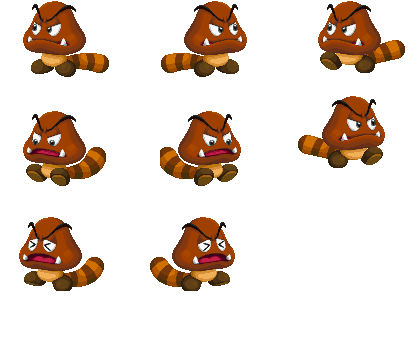
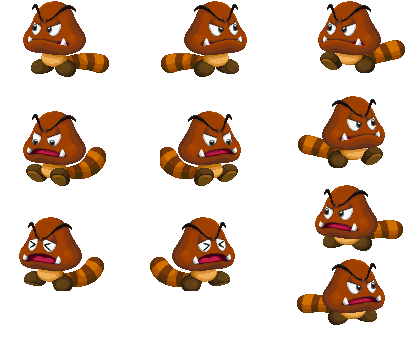
Enemy AI

Changed region(s): [[0.6973, 0.518, 0.9879, 0.9141]]

diff --git a/GameEngine/Physics.cpp b/GameEngine/Physics.cpp
@@ -79,6 +79,58 @@ void Physics::addPlayer(shared_ptr<GameObject> obj, float x, float y, float widt
     body->CreateFixture(&wheelFix);
 }
 
+void Physics::addEntity(shared_ptr<GameObject> obj, float x, float y, float width, float height, std::string userDataType) {
+    obj->body.width = width;
+    obj->body.height = height;
+
+
+    b2BodyDef bodyDef;
+    bodyDef.position.Set(x, y);
+    bodyDef.type = b2_dynamicBody;
+    bodyDef.fixedRotation = true;
+
+    CustomUserData* userData = new CustomUserData;
+    userData->index = obj->id;
+    bodyDef.userData.pointer = reinterpret_cast<uintptr_t>(userData);
+
+    b2Body* body = _world->CreateBody(&bodyDef);
+    obj->body.b2body = body;
+
+
+    b2PolygonShape box;
+    box.SetAsBox(obj->body.width / 2, obj->body.height / 2);
+    b2FixtureDef fixtureDef;
+    fixtureDef.filter.categoryBits = SCENERY;
+    fixtureDef.filter.maskBits = -1;
+
+    fixtureDef.shape = &box;
+    fixtureDef.density = 1.0f;
+    fixtureDef.friction = 0.3f;
+
+    CustomUserData* data = new CustomUserData;
+    data->type = userDataType;
+    fixtureDef.userData.pointer = reinterpret_cast<uintptr_t>(data);
+    body->CreateFixture(&fixtureDef);
+
+    b2CircleShape wheelShape;
+    wheelShape.m_radius = 0.05f;
+    wheelShape.m_p = { 0 - (obj->body.width / 2), 0 + (obj->body.height / 2) };
+    b2FixtureDef wheelFix;
+    wheelFix.shape = &wheelShape;
+    CustomUserData* data3 = new CustomUserData;
+    data3->type = "feetWheel";
+    wheelFix.userData.pointer = reinterpret_cast<uintptr_t>(data3);
+    body->CreateFixture(&wheelFix);
+
+    b2CircleShape wheelShape2;
+    wheelShape2.m_radius = 0.05f;
+    wheelShape2.m_p = { 0 + (obj->body.width / 2), 0 + (obj->body.height / 2) };
+    wheelFix.shape = &wheelShape2;
+    wheelFix.userData.pointer = reinterpret_cast<uintptr_t>(data3);
+    body->CreateFixture(&wheelFix);
+}
+
+
 void Physics::addNonRigidBody(shared_ptr<GameObject> obj, float x, float y, float width, float height, std::string userDataType) {
     obj->body.width = width;
     obj->body.height = height;

diff --git a/GameEngine/BehaviourMove.cpp b/GameEngine/BehaviourMove.cpp
@@ -5,9 +5,44 @@ void BehaviourMove::execute() {
 	shared_ptr<MoveExtension> extension = _self->getExtension<MoveExtension>();
 
 	if (_self->body.b2body->GetLinearVelocity().y == 0) {
-		extension->move(extension->isLookingToRight ? 2 : -2, 0);
 
-		// TODO: Look if player collides with entity. (yes = false, no = true)
-		this->executeNextBehaviour(true);
+		if (!isPlayerInAttackRange()) {
+			extension->move(extension->isLookingToRight ? 2 : -2, 0);
+
+			this->executeNextBehaviour(true);
+		}
+		else
+			this->executeNextBehaviour(false);
 	}
+}
+
+bool BehaviourMove::isPlayerInAttackRange() {
+	float lookX = 1;
+	float lookY = 1;
+
+	// TODO: NO BOX2D
+	float subjectX = _self->body.b2body->GetPosition().x;
+	float subjectY = _self->body.b2body->GetPosition().y;
+
+	float playerX = Scene::getInstance().getPlayer()->body.b2body->GetPosition().x;
+	float playerY = Scene::getInstance().getPlayer()->body.b2body->GetPosition().y;
+
+	float fovStartX = subjectX;
+	float fovEndX = subjectX + lookX;
+	float fovStartY = subjectY - lookY;
+	float fovEndY = subjectY + lookY;
+
+	if (_self->hasExtension(typeid(MoveExtension))) {
+		shared_ptr<MoveExtension> moveExtension = _self->getExtension<MoveExtension>();
+
+		if (!moveExtension->isLookingToRight) {
+			fovStartX = subjectX - lookX;
+			fovEndX = subjectX + 0.5f;
+		}
+	}
+	bool playerInViewX = playerX >= fovStartX && playerX <= fovEndX;
+	bool playerInViewY = playerY >= fovStartY && playerY <= fovEndY;
+
+	std::cout << std::to_string(playerInViewX) + ":" << std::to_string(playerInViewX) << endl;;
+	return playerInViewX && playerInViewY;
 }

diff --git a/Game/EnemyTextureExtension.cpp b/Game/EnemyTextureExtension.cpp
@@ -16,34 +16,26 @@ void EnemyTextureExtension::calculateTextures() {
 	if (moveExtension->isLookingToRight) {
 		if (moveExtension->currentMovementType == MovementTypes::IDLE)
 			currentState = MoveExtension::LOOK_RIGHT;
-		else if (moveExtension->currentMovementType == MovementTypes::JUMPING) {
-			if (_subject->body.b2body->GetLinearVelocity().y == 0)
-				currentState = MoveExtension::LOOK_RIGHT;
-			else
-				currentState = MoveExtension::JUMP_RIGHT;
-		}
 		else if (moveExtension->currentMovementType == MovementTypes::RUNNING) {
 			if (_subject->body.b2body->GetLinearVelocity().x == 0)
 				currentState = MoveExtension::LOOK_RIGHT;
 			else
 				currentState = MoveExtension::RUN_RIGHT;
 		}
+		else if (moveExtension->currentMovementType == MovementTypes::ATTACKING)
+			currentState = MoveExtension::ATTACK_RIGHT;
 	}
 	else {
 		if (moveExtension->currentMovementType == MovementTypes::IDLE)
 			currentState = MoveExtension::LOOK_LEFT;
-		else if (moveExtension->currentMovementType == MovementTypes::JUMPING) {
-			if (_subject->body.b2body->GetLinearVelocity().y == 0)
-				currentState = MoveExtension::LOOK_LEFT;
-			else
-				currentState = MoveExtension::JUMP_LEFT;
-		}
 		else if (moveExtension->currentMovementType == MovementTypes::RUNNING) {
 			if (_subject->body.b2body->GetLinearVelocity().x == 0)
 				currentState = MoveExtension::LOOK_LEFT;
 			else
 				currentState = MoveExtension::RUN_LEFT;
 		}
+		else if (moveExtension->currentMovementType == MovementTypes::ATTACKING)
+			currentState = MoveExtension::ATTACK_LEFT;
 	}
 
 	_subject->currentState = currentState;

diff --git a/Game/AbstractLevel.cpp b/Game/AbstractLevel.cpp
@@ -27,6 +27,23 @@ shared_ptr<GameObject> AbstractLevel::createGameObject(GameEngine gameEngine, ve
 	return gameObject;
 }
 
+shared_ptr<GameObject> AbstractLevel::createEnemy(GameEngine gameEngine, vector<string> extensions, std::string texture, float x, float y, float width, float height) {
+	extensions.push_back("EnemyTextureExtension");
+
+	shared_ptr<GameObject> gameObject = gameEngine.createGameObject(extensions);
+	gameObject->texture = texture;
+	gameObject->id = Scene::getInstance().getNextAvailableId();
+
+	Physics::getInstance().addEntity(gameObject, x, y, width, height);
+
+	if (std::find(extensions.begin(), extensions.end(), "AiExtension") != extensions.end())
+		Scene::getInstance().addEntity(gameObject);
+	else
+		Scene::getInstance().addGameObject(gameObject);
+
+	return gameObject;
+}
+
 shared_ptr<GameObject> AbstractLevel::createNonRigidBody(GameEngine gameEngine, vector<string> extensions, std::string texture, float x, float y, float width, float height, std::string userDataType = NULL) {
 	shared_ptr<GameObject> gameObject = gameEngine.createGameObject(extensions);
 	gameObject->texture = texture;

diff --git a/Game/AbstractLevel.h b/Game/AbstractLevel.h
@@ -23,6 +23,18 @@ protected:
 	/// <returns>The created entity.</returns>
 	shared_ptr<GameObject> createEntity(GameEngine gameEngine, vector<string> extensions, std::string texture, float x, float y, float width, float height);
 	/// <summary>
+	/// Creates a new enemy
+	/// </summary>
+	/// <param name="gameEngine">The game engine.</param>
+	/// <param name="extensions">The extensions which this game object will use.</param>
+	/// <param name="textureKey">The texture we want to use.</param>
+	/// <param name="x">The x-coordinate.</param>
+	/// <param name="y">The y-coordinate.</param>
+	/// <param name="width">The object width.</param>
+	/// <param name="height">The object height.</param>
+	/// <returns>The created enemy.</returns>
+	shared_ptr<GameObject> createEnemy(GameEngine gameEngine, vector<string> extensions, std::string texture, float x, float y, float width, float height);
+	/// <summary>
 	/// Creates a new non ridgid.
 	/// </summary>
 	/// <param name="gameEngine">The game engine.</param>

diff --git a/GameEngine/BehaviourSeesEnemy.cpp b/GameEngine/BehaviourSeesEnemy.cpp
@@ -2,8 +2,8 @@
 #include "BehaviourSeesEnemy.h"
 
 void BehaviourSeesEnemy::execute() {
-	int lookX = 10;
-	int lookY = 1;
+	float lookX = 10;
+	float lookY = 2;
 
 	// TODO: NO BOX2D
 	float subjectX = _self->body.b2body->GetPosition().x;
@@ -12,14 +12,13 @@ void BehaviourSeesEnemy::execute() {
 	float playerX = Scene::getInstance().getPlayer()->body.b2body->GetPosition().x;
 	float playerY = Scene::getInstance().getPlayer()->body.b2body->GetPosition().y;
 
-	int fovStartX = subjectX;
-	int fovEndX = subjectX + lookX;
-	int fovStartY = subjectY - lookY;
-	int fovEndY = subjectY + lookY;
+	float fovStartX = subjectX;
+	float fovEndX = subjectX + lookX;
+	float fovStartY = subjectY - lookY;
+	float fovEndY = subjectY + lookY;
 
 	if (_self->hasExtension(typeid(MoveExtension))) {
 		shared_ptr<MoveExtension> moveExtension = _self->getExtension<MoveExtension>();
-
 
 		if (!moveExtension->isLookingToRight) {
 			fovStartX = subjectX - lookX;

diff --git a/GameEngine/Physics.h b/GameEngine/Physics.h
@@ -64,6 +64,17 @@ public:
 	void addPlayer(shared_ptr<GameObject> obj, float x, float y, float width, float height);
 
 	/// <summary>
+	/// Adds an entity to the world.
+	/// </summary>
+	/// <param name="obj">The entity.</param>
+	/// <param name="x">The x-coordinate.</param>
+	/// <param name="y">The y-coordinate.</param>
+	/// <param name="width">The width</param>
+	/// <param name="height">The height.</param>
+	/// <param name="userDataType">The identifier.</param>
+	void addEntity(shared_ptr<GameObject> obj, float x, float y, float width, float height, std::string userDataType = "entityFixture");
+
+	/// <summary>
 	/// Adds a portal to the world.
 	/// </summary>
 	/// <param name="obj">The player.</param>

diff --git a/GameEngine/MoveExtension.cpp b/GameEngine/MoveExtension.cpp
@@ -9,6 +9,8 @@ const std::string MoveExtension::LOOK_LEFT = "Look_Left";
 const std::string MoveExtension::RUN_LEFT = "Running_Left";
 const std::string MoveExtension::JUMP_LEFT = "Jump_Left";
 const std::string MoveExtension::FALL_LEFT = "Fall_Left";
+const std::string MoveExtension::ATTACK_LEFT = "Attack_Left";
+const std::string MoveExtension::ATTACK_RIGHT = "Attack_Right";
 
 MoveExtension::MoveExtension() {
 	type = "MoveExtension";
@@ -23,7 +25,6 @@ void MoveExtension::move(float movementX, float movementY) {
 	currentMovementType = MovementTypes::RUNNING;
 
 	_subject->body.b2body->SetLinearVelocity(vel);
-
 }
 
 bool MoveExtension::canJump() {

diff --git a/GameEngine/DefaultEntityAI.cpp b/GameEngine/DefaultEntityAI.cpp
@@ -10,7 +10,10 @@ void DefaultEntityAI::createBehaviourTree(shared_ptr<GameObject> self) {
 	shared_ptr<BehaviourSeesEnemy> seesEnemy = make_shared<BehaviourSeesEnemy>(BehaviourSeesEnemy(self));
 	_behaviourIdle->behaviourTrue = seesEnemy;
 
+	shared_ptr<BehaviourAttack> attackPlayer = make_shared<BehaviourAttack>(BehaviourAttack(self));
+
 	shared_ptr<BehaviourMove> moveEnemy = make_shared<BehaviourMove>(BehaviourMove(self));
+	moveEnemy->behaviourFalse = attackPlayer;
 
 	shared_ptr<BehaviourRotate> rotateEnemy = make_shared<BehaviourRotate>(BehaviourRotate(self, 2000));
 	seesEnemy->behaviourTrue = moveEnemy;

diff --git a/Game/DefaultTiledLevel.cpp b/Game/DefaultTiledLevel.cpp
@@ -73,7 +73,7 @@ void DefaultTiledLevel::createObject(GameEngine gameEngine, TiledGameObject& til
 		Scene::getInstance().getPlayer()->currentState = MoveExtension::LOOK_RIGHT;
 	}
 	else if (tiledGameObject.type == "Enemy") {
-		shared_ptr<GameObject> enemy = createGameObject(gameEngine, extensions, "Goomba_SpriteSheet", x, y, 0.7f, 1.0f, 0.3f, false, true);
+		shared_ptr<GameObject> enemy = createEnemy(gameEngine, extensions, "Goomba_SpriteSheet", x, y, 0.7f, 1.0f);
 
 		if (enemy->hasExtension(typeid(AiExtension))) {
 			// We only use the default entity ai, so no need to check for anything else.

diff --git a/GameEngine/BehaviourAttack.cpp b/GameEngine/BehaviourAttack.cpp
@@ -3,7 +3,16 @@
 
 void BehaviourAttack::execute() {
 	shared_ptr<HealthExtension> healthExtension = Scene::getInstance().getPlayer()->getExtension<HealthExtension>();
-	healthExtension->reduceHealth(1);
+	shared_ptr<MoveExtension> moveExtension = _self->getExtension<MoveExtension>();
 
-	this->executeNextBehaviour(true);
+	if (healthExtension != nullptr) {
+		healthExtension->reduceHealth(1);
+
+		if (moveExtension != nullptr)
+			moveExtension->currentMovementType = MovementTypes::ATTACKING;
+
+		this->executeNextBehaviour(true);
+	}
+	
+	this->executeNextBehaviour(false);
 }

diff --git a/Game/Game.cpp b/Game/Game.cpp
@@ -30,6 +30,9 @@ void Game::onInit() {
 	sprites.insert(std::make_pair(MoveExtension::RUN_LEFT, Rect{ 318, 1, 87, 72 }));
 	sprites.insert(std::make_pair(MoveExtension::RUN_RIGHT, Rect{ 298, 96, 87, 72 }));
 
+	sprites.insert(std::make_pair(MoveExtension::ATTACK_LEFT, Rect{ 315, 185, 88, 66 }));
+	sprites.insert(std::make_pair(MoveExtension::ATTACK_RIGHT, Rect{ 297, 259, 88, 66 }));
+
 	registerTexture("Goomba_SpriteSheet", "res/gfx/Assets/Entity/Goomba/Goomba.png", sprites);
 
 	registerTexture("Crate_Metal", "res/gfx/Assets/Enviroment/Crate_Metal.png");
